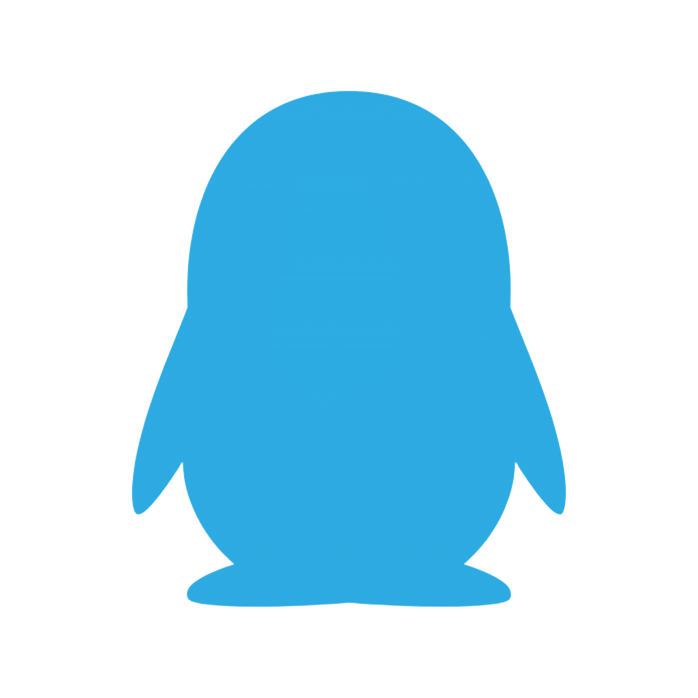
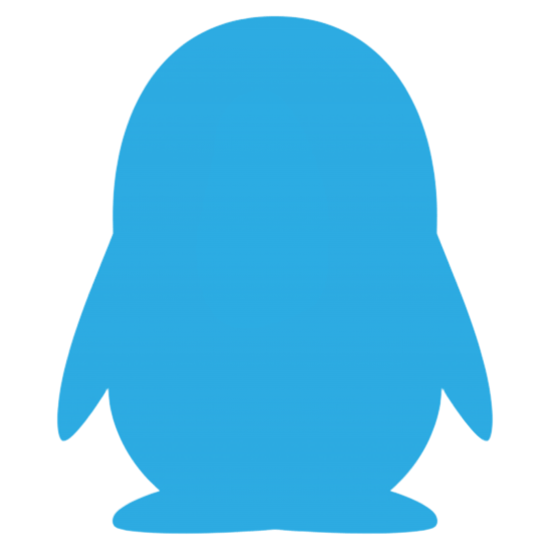
插件管理页可以显示指定的图标 图像更新

Changed region(s): [[0.0927, 0.0309, 0.8964, 0.9891]]

diff --git a/src/com/wmp/classtools/frame/ShowCookieDialog.java b/src/com/wmp/classtools/frame/ShowCookieDialog.java
@@ -12,8 +12,6 @@ import com.wmp.classTools.frame.tools.cookie.StartCookie;
 
 import javax.swing.*;
 import java.awt.*;
-import java.awt.event.MouseEvent;
-import java.awt.event.MouseListener;
 import java.io.File;
 import java.io.IOException;
 import java.net.URISyntaxException;
@@ -25,7 +23,7 @@ public class ShowCookieDialog extends JDialog {
 
     private String[] s = {"null", "null"};
 
-    private final TreeSet<JLabel> cookiePanelMap = new TreeSet<>(Comparator.comparing(JLabel::getText));
+    private final TreeSet<JButton> cookiePanelMap = new TreeSet<>(Comparator.comparing(JButton::getText));
     private final TreeMap<String, File> cookieMap = new TreeMap<>();
 
     public ShowCookieDialog() throws IOException {
@@ -96,82 +94,55 @@ public class ShowCookieDialog extends JDialog {
         // 显示插件库
         JPanel cookiesPanel = new JPanel();
         cookiesPanel.setBackground(Color.WHITE);
-        cookiesPanel.setLayout(new GridLayout(0, 1, 20, 10));
+        cookiesPanel.setLayout(new GridLayout(10, 1, 20, 10));
 
         GetCookie getCookie = new GetCookie();
 
 
         getCookie.getCookieMap().forEach((key, value) -> {
-            JLabel label = new JLabel(getCookie.getName(key));
-            label.setHorizontalAlignment(JLabel.CENTER);
+            JButton cookieButton = new JButton(getCookie.getName(key));
+            cookieButton.setBackground(Color.WHITE);
+            if (getCookie.getCookieMap().get(key).getIcon() != null){
+                cookieButton.setIcon(getCookie.getCookieMap().get(key).getIcon());
+            }
+            cookieButton.setHorizontalAlignment(JLabel.CENTER);
             //显示边框
-            label.setBorder(BorderFactory.createLineBorder(Color.BLACK, 1));
-            label.setFont(new Font("微软雅黑", Font.BOLD, 18));
-            label.setCursor(Cursor.getPredefinedCursor(Cursor.HAND_CURSOR));// 设置鼠标样式 - 箭头
-            label.addMouseListener(new MouseListener() {
+            cookieButton.setBorder(BorderFactory.createLineBorder(Color.BLACK, 1));
+            cookieButton.setFont(new Font("微软雅黑", Font.BOLD, 18));
+            cookieButton.setCursor(Cursor.getPredefinedCursor(Cursor.HAND_CURSOR));// 设置鼠标样式 - 箭头
+            cookieButton.addActionListener(e->{
+                if (s[0].equals(key)){
+                    System.out.println("重复点击" + cookieButton.getText());
+                    cookieButton.setForeground(Color.RED);
 
-                // 鼠标点击事件
-                @Override
-                public void mouseClicked(MouseEvent evt) {
-                    if (s[0].equals(key)){
-                        System.out.println("重复点击" + label.getText());
-                        label.setForeground(Color.RED);
+                    StartCookie.showCookie(s[0]);
+                    s[0] = "null";
+                    return;
+                }else{
+                    System.out.println("点击了" + cookieButton.getText());
+                    s[0] = key;
+                    s[1] = cookieButton.getText();
+                }
 
-                        StartCookie.showCookie(s[0]);
-                        s[0] = "null";
-                        return;
-                    }else{
-                        System.out.println("点击了" + label.getText());
-                        s[0] = key;
-                        s[1] = label.getText();
+                //cookieButton.setBorder(BorderFactory.createLineBorder(new Color(0x0090FF), 1));
+                cookieButton.setForeground(new Color(0x0090FF));
+
+                openInExp.setEnabled(true);
+                runCookie.setEnabled(true);
+                outputBtn.setEnabled(true);
+                for (JButton label : cookiePanelMap) {
+                    if (!label.getText().equals(s[1])) {
+                        //label.setBorder(BorderFactory.createLineBorder(Color.BLACK, 1));
+                        label.setForeground(Color.BLACK);
                     }
-
-                    label.setBorder(BorderFactory.createLineBorder(new Color(0x0090FF), 1));
-                    label.setForeground(new Color(0x0090FF));
-
-                    openInExp.setEnabled(true);
-                    runCookie.setEnabled(true);
-                    outputBtn.setEnabled(true);
-                    for (JLabel label : cookiePanelMap) {
-                        if (!label.getText().equals(s[1])) {
-                            label.setBorder(BorderFactory.createLineBorder(Color.BLACK, 1));
-                            label.setForeground(Color.BLACK);
-                        }
-                    }
-                    label.repaint();
-                    cookiesPanel.repaint();
-                    c.repaint();
                 }
-
-                // 鼠标按下事件
-                @Override
-                public void mousePressed(MouseEvent evt) {
-
-                }
-
-                // 鼠标释放事件
-                @Override
-                public void mouseReleased(MouseEvent e) {
-
-                }
-
-                // 鼠标移入事件
-                @Override
-                public void mouseEntered(MouseEvent evt) {
-
-                }
-
-                // 鼠标移出事件
-                @Override
-                public void mouseExited(MouseEvent evt) {
-
-                }
-
-
+                cookieButton.repaint();
+                cookiesPanel.repaint();
+                c.repaint();
             });
-            cookiePanelMap.add(label);
+            cookiePanelMap.add(cookieButton);
             cookieMap.put(key, value.getPath());
-            cookiesPanel.add(label);
+            cookiesPanel.add(cookieButton);
         });
 
         cookiesPanel.setMaximumSize(cookiesPanel.getPreferredSize());
@@ -242,6 +213,7 @@ public class ShowCookieDialog extends JDialog {
         helpMenu.setMnemonic('H');
 
         JMenuItem helpDoc = new JMenuItem("帮助文档");
+        helpDoc.setIcon( GetIcon.getIcon(getClass().getResource("/image/doc.png"),16,16));
         helpDoc.addActionListener(e -> {
             try {
                 new ShowHelpDoc(ShowHelpDoc.CONFIG_PLUGIN);
@@ -258,7 +230,7 @@ public class ShowCookieDialog extends JDialog {
     private void initDialog() {
         this.setTitle("插件库");
         this.setSize(400, 500);
-        this.setIconImage(GetIcon.getImageIcon(getClass().getResource("/image/icon.png"),
+        this.setIconImage(GetIcon.getImageIcon(getClass().getResource("/image/light/cookie_0.png"),
                         32, 32).getImage());
         this.setLocationRelativeTo(null);
         this.setModal(true);

diff --git a/src/com/wmp/classtools/frame/tools/cookie/GetCookie.java b/src/com/wmp/classtools/frame/tools/cookie/GetCookie.java
@@ -1,19 +1,21 @@
 package com.wmp.classTools.frame.tools.cookie;
 
 import com.wmp.Main;
+import com.wmp.PublicTools.GetIcon;
 import org.json.JSONObject;
 
 import java.io.*;
+import java.net.URL;
 import java.nio.charset.StandardCharsets;
 import java.util.TreeMap;
 
 public class GetCookie {
 
-    private static final String CookiePath = Main.DataPath + "\\Cookie\\";
+    private final String CookiePath = Main.DataPath + "\\Cookie\\";
     // pin -> name
     //private final TreeMap<String, String> nameList = new TreeMap<>();
     // pin -> 文件位置
-    private static final TreeMap<String, Cookie> cookieMap = new TreeMap<>();
+    private final TreeMap<String, Cookie> cookieMap = new TreeMap<>();
 
     public GetCookie() throws IOException {
         File basic = new File(CookiePath);
@@ -46,17 +48,31 @@ public class GetCookie {
                             String exec = JSONCookieSets.getString("run");
                             exec = exec.replace("%CookiePath", cookieFile.getPath());
 
-                            Cookie cookie;
-                            String name = JSONCookieSets.getString("pin");
-                            String style = "other";
+                            Cookie cookie = new Cookie("null", "other", null, new File(exec));
+
+                            StringBuilder iconPath = new StringBuilder();
                             if (JSONCookieSets.has("style")){
-                                style = JSONCookieSets.getString("style");
+                                cookie.setStyle(JSONCookieSets.getString("style"));
                             }
                             if (JSONCookieSets.has("name")){
-                                name = JSONCookieSets.getString("name");
+                                cookie.setName(JSONCookieSets.getString("name"));
                             }
-                            cookie =  new Cookie(name, style, new File(exec));
+                            if (JSONCookieSets.has("icon")){
+                                StringBuilder temp = new StringBuilder();
+                                temp.append("file:///").append(JSONCookieSets.getString("icon"));
+                                iconPath.append(temp.toString().replace("%CookiePath", cookieFile.getPath())
+                                        .replace("\\", "/"));
 
+                                try {
+                                    if (!iconPath.toString().isEmpty()) {
+                                        cookie.setIcon(GetIcon.getImageIcon(new URL(iconPath.toString()), 40, 40));
+                                    }
+                                }catch ( Exception e){
+                                    System.err.println("iconSetError:" + e);
+                                    cookie.setIcon(null);
+                                }
+
+                            }
 
                             cookieMap.put(JSONCookieSets.getString("pin"), cookie);
                         }
@@ -68,6 +84,7 @@ public class GetCookie {
             }
             System.out.println(cookieMap);
         }
+
     }
 
     public String getName(String key) {

diff --git a/src/com/wmp/classtools/frame/tools/cookie/Cookie.java b/src/com/wmp/classtools/frame/tools/cookie/Cookie.java
@@ -1,16 +1,19 @@
 package com.wmp.classTools.frame.tools.cookie;
 
+import javax.swing.*;
 import java.io.File;
 
 public class Cookie {
     private String name;
     private String Style;
     private File path;
+    private Icon icon;
 
-    public Cookie(String name, String style, File path) {
+    public Cookie(String name, String style, Icon icon, File path) {
         this.name = name;
-        Style = style;
+        this.Style = style;
         this.path = path;
+        this.icon = icon;
     }
 
     public Cookie() {
@@ -40,11 +43,20 @@ public class Cookie {
         this.path = path;
     }
 
+    public Icon getIcon() {
+        return icon;
+    }
+
+    public void setIcon(Icon icon) {
+        this.icon = icon;
+    }
+
     @Override
     public String toString() {
         return "Cookie{" +
                 "name='" + name + '\'' +
                 ", Style='" + Style + '\'' +
+                ", icon=" + icon + '\'' +
                 ", path=" + path +
                 '}';
     }

diff --git a/src/com/wmp/PublicTools/GetIcon.java b/src/com/wmp/PublicTools/GetIcon.java
@@ -6,6 +6,9 @@ import java.net.URL;
 
 public class GetIcon {
     public static Icon getIcon(URL path, int width, int height){
+        if (path == null){
+            return null;
+        }
         ImageIcon icon = new ImageIcon(path);
         icon.setImage(icon.getImage().getScaledInstance( width, height, Image.SCALE_DEFAULT));
         return icon;

diff --git a/src/com/wmp/Main.java b/src/com/wmp/Main.java
@@ -33,7 +33,7 @@ public class Main{
     * d:修复c版的问题(仅限)
     * e:测试版本号
      */
-    public static String version = "1.13.4.1";
+    public static String version = "1.13.5";
 
     public static ArrayList<String> list = new ArrayList<>();
 

diff --git a/src/help/如何配置插件.md b/src/help/如何配置插件.md
@@ -23,8 +23,9 @@
     "name":"我的插件", //插件名称
     "pin" : "startfile", //startfile - 运行此插件时需要的指令 如: cookie:startfile
     "style":"exe",
+    "icon":"%CookiePath\\myicon.png"//可选,用于显示插件图标
     "run" : "%CookiePath\\myexe.exe" //在输入指令后要运行的命令(通过cmd执行)
-    
+
 }
 ```
 
@@ -48,7 +49,7 @@
 > 
 >         directory, file:会在文件资源管理器上打开对应目录
 > 
->     run中的特殊参数:
+>     run与icon中的特殊参数:
 > 
 >         %CookiePath ---获取当前插件所在目录(如：C:\Users\\...\AppData\Local\ClassTools\Cookie\mycookie)
 
